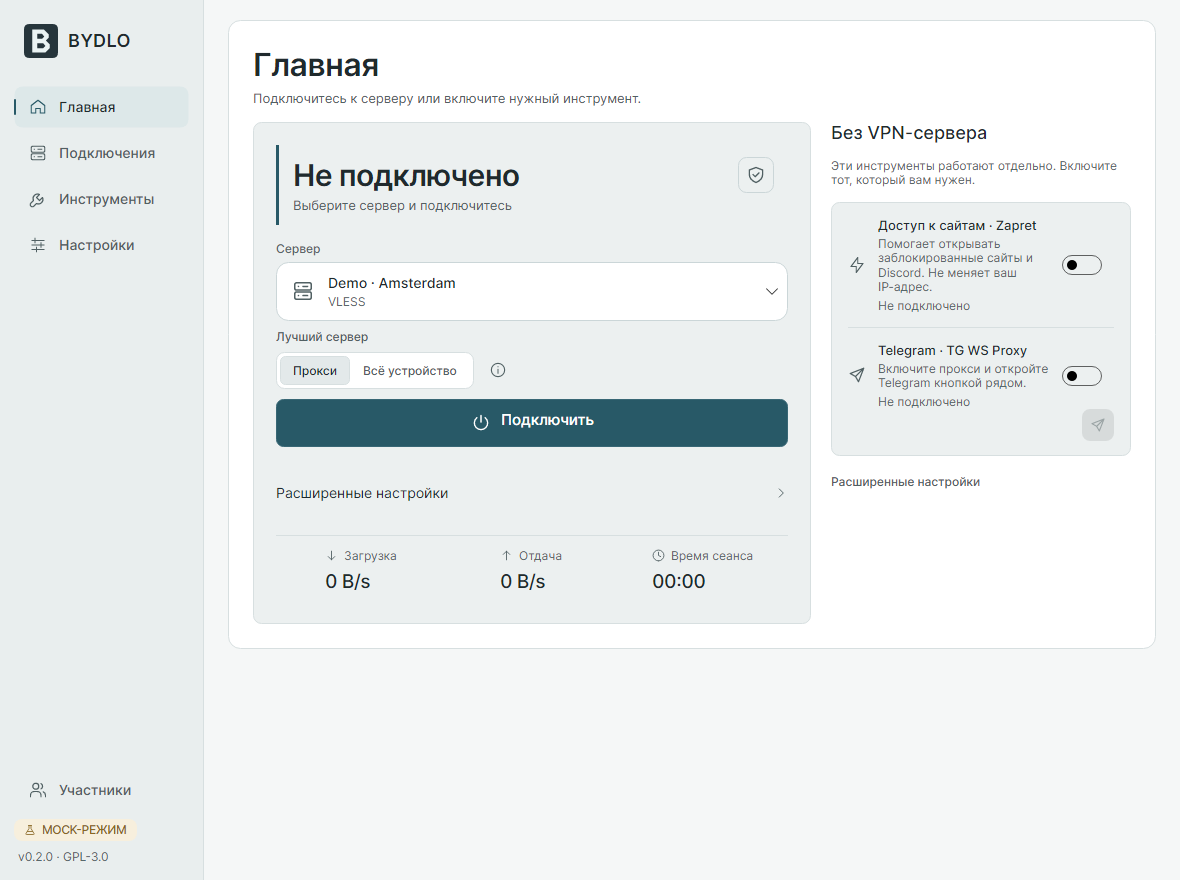
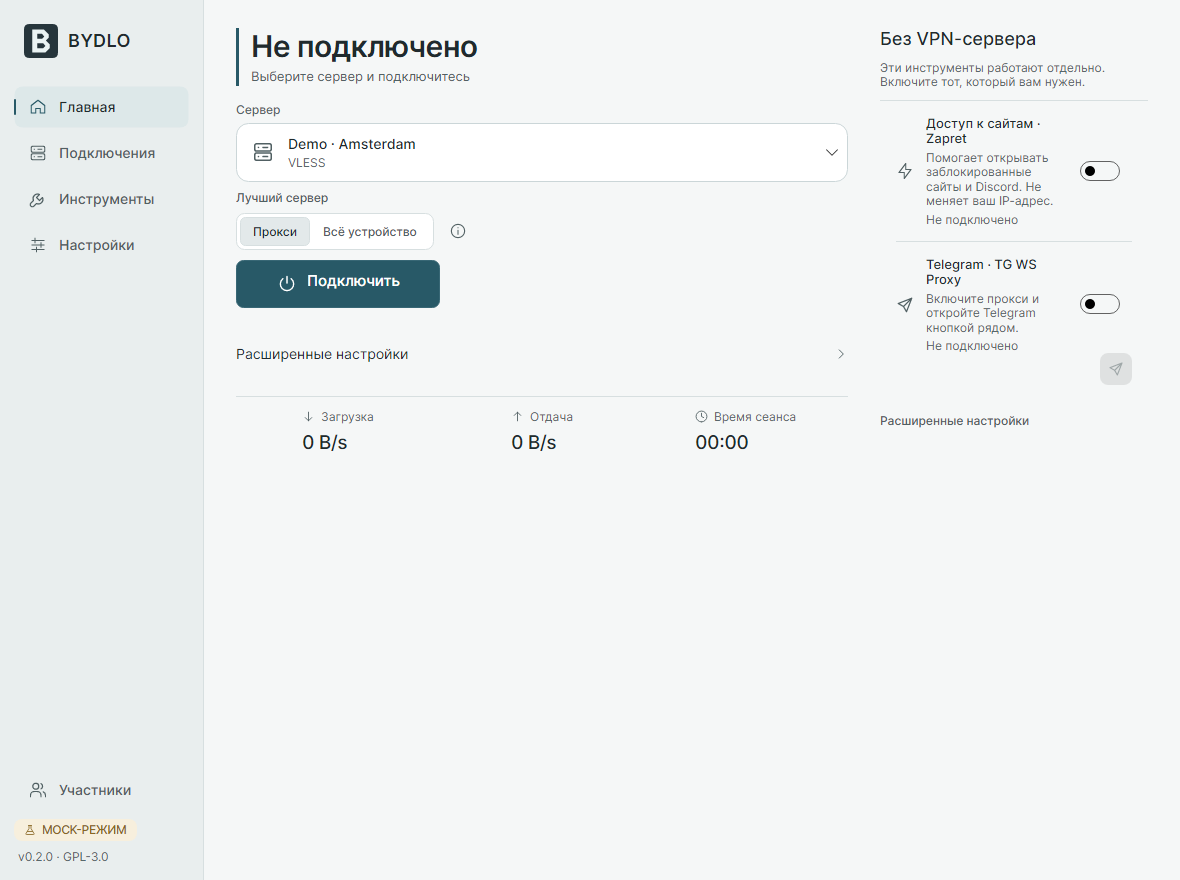
Simplify the desktop workspace layout

diff --git a/src/Bydlo.App/Views/HomeView.axaml.cs b/src/Bydlo.App/Views/HomeView.axaml.cs
@@ -13,7 +13,7 @@ public sealed partial class HomeView : UserControl
         var compact = e.NewSize.Width < 620;
         ToolShortcut.IsVisible = compact;
         var stacked = e.NewSize.Width < 740;
-        Landing.ColumnDefinitions = new ColumnDefinitions(stacked ? "*" : "*,20,300");
+        Landing.ColumnDefinitions = new ColumnDefinitions(stacked ? "*" : "*,32,268");
         Grid.SetColumn(QuickTools, stacked ? 0 : 2);
         Grid.SetRow(QuickTools, stacked ? 1 : 0);
         QuickTools.Margin = new Thickness(0, stacked ? 24 : 0, 0, 0);

diff --git a/docs/INTERFACE.md b/docs/INTERFACE.md
@@ -20,9 +20,7 @@
 и скорости открываются отдельно под списком. Перед удалением сервера или
 цепочки приложение просит подтвердить действие.
 
-На широком экране страницы используют ту же визуальную структуру, что и мастер
-добавления сервера. Заголовок и связанные действия собраны на одной поверхности,
-а настройки внутри неё сгруппированы в спокойные контрастные блоки.
+На широком экране подключение и инструменты видны рядом. Серверы показаны списком, а группы настроек разделены линиями. Мастер добавления сервера открывается отдельно.
 
 В верхней части настроек есть переходы к оформлению, подключению, резервной
 копии, маршрутизации и статистике. «Уменьшить движение интерфейса» в оформлении
